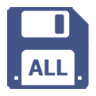
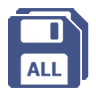
shet

Changed region(s): [[0.0625, 0.0625, 0.9375, 0.9375]]

diff --git a/main.py b/main.py
@@ -40,7 +40,8 @@ class App(QMainWindow):
         self.__save_program_action = QAction()
         self.__save_tests_action = QAction()
         self.__save_all_action = QAction()
-        self.__load_action = QAction()
+        self.__load_program_action = QAction()
+        self.__load_tests_action = QAction()
         self.__reset_action = QAction()
         self.__exit_action = QAction()
         self.__timer = QDoubleSpinBox()
@@ -63,8 +64,8 @@ class App(QMainWindow):
 
         # инициализация раннера, сейвера и загрузчика
         self.__saver = Saver(self, self.__comment, self.__table, self.__tape, self.__tape_list)
-        self.__program_run = Program(self.__table, self.__tape, self.__timer, self.__signals.on_stop)
-        # self.__program_debug = Program(self.__table, self.__tape, self.__timer, self.__signals.on_stop)
+        self.__loader = Loader(self, self.__comment, self.__table, self.__tape, self.__tape_list, self.__saver)
+        self.__program = Program(self.__table, self.__tape, self.__timer, self.__signals.on_stop)
 
         # установка получения событий
         self.installEventFilter(self)
@@ -100,7 +101,7 @@ class App(QMainWindow):
     def __set_clear_tape_action(self) -> None:
         self.__clear_tape_action.setIcon(QIcon(''))
         self.__clear_tape_action.setText('Clear')
-        self.__clear_tape_action.setShortcut('F9')  # TODO второй F4
+        self.__clear_tape_action.setShortcut('F9')
         self.__clear_tape_action.setStatusTip('Clear tape')
         self.__clear_tape_action.triggered.connect(self.clear_tape)
 
@@ -120,43 +121,50 @@ class App(QMainWindow):
 
     def __set_save_program_action(self) -> None:
         self.__save_program_action.setIcon(QIcon('icons/save-program.png'))
-        self.__save_program_action.setText('Save program')
-        self.__save_program_action.setShortcut('Ctrl+S')
-        self.__save_program_action.setStatusTip('Save program')
+        self.__save_program_action.setText('Save Program')
+        self.__save_program_action.setShortcut('Ctrl+P')
+        self.__save_program_action.setStatusTip('Save Program')
         self.__save_program_action.triggered.connect(self.__saver.save_program)
 
     def __set_save_tests_action(self) -> None:
         self.__save_tests_action.setIcon(QIcon('icons/save-tests.png'))
-        self.__save_tests_action.setText('Save tests')
+        self.__save_tests_action.setText('Save Tests')
         self.__save_tests_action.setShortcut('Ctrl+T')
-        self.__save_tests_action.setStatusTip('Save tests')
+        self.__save_tests_action.setStatusTip('Save Tests')
         self.__save_tests_action.triggered.connect(self.__saver.save_tests)
 
     def __set_save_all_action(self) -> None:
         self.__save_all_action.setIcon(QIcon('icons/save-all.png'))
-        self.__save_all_action.setText('Save all')
+        self.__save_all_action.setText('Save All')
         self.__save_all_action.setShortcut('Ctrl+A')
-        self.__save_all_action.setStatusTip('Save all')
-        # self.__save_all_action.triggered.connect(self.__saver.save_all)
+        self.__save_all_action.setStatusTip('Save All')
+        self.__save_all_action.triggered.connect(self.__saver.save_all)
 
-    def __set_load_action(self) -> None:
-        self.__load_action.setIcon(QIcon(''))
-        self.__load_action.setText('Load')
-        self.__load_action.setShortcut('Ctrl+E')
-        self.__load_action.setStatusTip('Load program')
-        self.__load_action.triggered.connect(self.load_program)
+    def __set_load_program_action(self) -> None:
+        self.__load_program_action.setIcon(QIcon(''))
+        self.__load_program_action.setText('Load Program')
+        self.__load_program_action.setShortcut('Ctrl+Shift+P')
+        self.__load_program_action.setStatusTip('Load Program')
+        self.__load_program_action.triggered.connect(self.__loader.load_program)
+
+    def __set_load_tests_action(self) -> None:
+        self.__load_tests_action.setIcon(QIcon(''))
+        self.__load_tests_action.setText('Load Tests')
+        self.__load_tests_action.setShortcut('Ctrl+Shift+T')
+        self.__load_tests_action.setStatusTip('Load Tests')
+        self.__load_tests_action.triggered.connect(self.__loader.load_tests)
 
     def __set_actions(self) -> None:
         self.__set_run_action()
         self.__set_debug_action()
         self.__set_pause_action()
         self.__set_stop_action()
-        # TODO: добавить остальные действия
         self.__set_save_program_action()
         self.__set_clear_tape_action()
         self.__set_save_tests_action()
         self.__set_save_all_action()
-        self.__set_load_action()
+        self.__set_load_program_action()
+        self.__set_load_tests_action()
         self.__set_exit_action()
 
     def __set_timer(self) -> None:
@@ -176,7 +184,8 @@ class App(QMainWindow):
         self.__file_menu.addAction(self.__save_tests_action)
         self.__file_menu.addAction(self.__save_all_action)
         self.__file_menu.addSeparator()
-        self.__file_menu.addAction(self.__load_action)
+        self.__file_menu.addAction(self.__load_program_action)
+        self.__file_menu.addAction(self.__load_tests_action)
         self.__file_menu.addSeparator()
         self.__file_menu.addAction(self.__exit_action)
 
@@ -201,11 +210,15 @@ class App(QMainWindow):
         self.__toolbar.addAction(self.__debug_action)
         self.__toolbar.addAction(self.__pause_action)
         self.__toolbar.addAction(self.__stop_action)
-        self.__toolbar.addAction(self.__clear_tape_action)
         self.__toolbar.addSeparator()
         self.__toolbar.addAction(self.__save_program_action)
         self.__toolbar.addAction(self.__save_tests_action)
         self.__toolbar.addAction(self.__save_all_action)
+        self.__toolbar.addSeparator()
+        self.__toolbar.addAction(self.__load_program_action)
+        self.__toolbar.addAction(self.__load_tests_action)
+        self.__toolbar.addSeparator()
+        self.__toolbar.addAction(self.__clear_tape_action)
         spacer = QWidget()
         spacer.setSizePolicy(QSizePolicy.Expanding, QSizePolicy.Expanding)
         self.__toolbar.addWidget(spacer)
@@ -257,33 +270,25 @@ class App(QMainWindow):
 
     def run_program(self):
         # self.__disable_interface()
-        self.__program_run.set_mode(False)
-        self.__program_run.start()
+        self.__program.set_mode(False)
+        self.__program.start()
 
     def debug_program(self):
         # self.__disable_interface()
-        self.__program_run.set_mode(True)
-        self.__program_run.start()
+        self.__program.set_mode(True)
+        self.__program.start()
 
     def pause_program(self):
-        self.__program_run.pause()
+        self.__program.pause()
 
     def stop_program(self):
         # self.__enable_interface()
-        self.__program_run.stop()
-        self.__program_run.quit()
-        self.__program_run.wait()
+        self.__program.stop()
+        self.__program.quit()
+        self.__program.wait()
 
     def clear_tape(self):
         self.__tape.reset()
-
-    def save_program(self):
-        self.__saver.save_program()
-
-    def load_program(self):
-        program = Loader.load_program(self)
-        self.__tape.set_from_file(program['tape'])
-        self.__table.set_from_file(program['table'])
 
     def init_ui(self):
         self.setGeometry(self.__x, self.__y, self.__width, self.__height)

diff --git a/utils/saver.py b/utils/saver.py
@@ -13,14 +13,38 @@ class Saver:
     PROGRAM_NAME = './program.pmp'
     TESTS_NAME = './tests.pmt'
 
-    def __init__(self, parent: any, comment: Comment, table: Table, tape: Tape, tape_list: TapeList):
+    def __init__(self, parent: any, comment: Comment, table: Table, tape: Tape, tape_list: TapeList) -> None:
         self.__parent = parent
         self.__comment = comment
         self.__table = table
         self.__tape = tape
         self.__tape_list = tape_list
+        self.__program_data = None
+        self.__tests_data = None
         self.__program_path = None
         self.__tests_path = None
+
+    def __get_file_path(self, file_name: str) -> str:
+        path = QFileDialog.getOpenFileName(self.__parent, self.CHOOSE_FILE, file_name)[0]
+        return None if path == '' else path
+
+    def __save_program(self) -> None:
+        data = self.get_program_data()
+        try:
+            with open(self.__program_path, 'w') as fout:
+                json.dump(data, fout, indent=2)
+            self.__program_data = data
+        except TypeError:
+            pass
+
+    def __save_tests(self) -> None:
+        data = self.get_tests_data()
+        try:
+            with open(self.__tests_path, 'w') as fout:
+                json.dump(data, fout, indent=2)
+            self.__tests_data = data
+        except TypeError:
+            pass
 
     def save_program(self):
         if self.__program_path is None:
@@ -29,7 +53,7 @@ class Saver:
             self.__save_program()
 
     def save_program_as(self):
-        self.__program_path = QFileDialog.getSaveFileName(self.__parent, self.CHOOSE_FILE, self.PROGRAM_NAME)[0]
+        self.__program_path = self.__get_file_path(self.PROGRAM_NAME)
         self.__save_program()
 
     def get_program_data(self) -> dict:
@@ -40,11 +64,6 @@ class Saver:
         }
         return program_data
 
-    def __save_program(self) -> None:
-        program_data = self.get_program_data()
-        with open(self.__program_path, 'w') as fout:
-            json.dump(program_data, fout, indent=2)
-
     def save_tests(self):
         if self.__tests_path is None:
             self.save_tests_as()
@@ -52,14 +71,19 @@ class Saver:
             self.__save_tests()
 
     def save_tests_as(self):
-        self.__program_path = QFileDialog.getSaveFileName(self.__parent, self.CHOOSE_FILE, self.TESTS_NAME)[0]
+        self.__tests_path = self.__get_file_path(self.TESTS_NAME)
         self.__save_tests()
 
     def get_tests_data(self) -> dict:
         tests_data = self.__tape_list.get_data()
         return tests_data
 
-    def __save_tests(self) -> None:
-        tests_data = self.get_tests_data()
-        with open(self.__tests_path, 'w') as fout:
-            json.dump(tests_data, fout, indent=2)
+    def save_all(self):
+        self.save_program()
+        self.save_tests()
+
+    def is_program_unsaved(self) -> bool:
+        return self.__program_data != self.get_program_data()
+
+    def are_tests_unsaved(self) -> bool:
+        return self.__tests_data != self.get_tests_data()

diff --git a/utils/loader.py b/utils/loader.py
@@ -1,17 +1,69 @@
 import json
+from json import JSONDecodeError
 
-from PyQt5.QtWidgets import QFileDialog
+from PyQt5.QtWidgets import QFileDialog, QMessageBox
+
+from utils import Saver
+from widgets.comment import Comment
+from widgets.table import Table
+from widgets.tape import Tape
+from widgets.tape_list import TapeList
 
 
 class Loader:
-    @staticmethod
-    def load_program(app):
-        fname = QFileDialog.getOpenFileName(app, 'Open file', './~')[0]
+    OPEN_FILE = 'Open file'
+    DEFAULT_DIRECTORY = './~'
+
+    def __init__(self, parent: any, comment: Comment, table: Table, tape: Tape, tape_list: TapeList,
+                 saver: Saver) -> None:
+        self.__parent = parent
+        self.__comment = comment
+        self.__table = table
+        self.__tape = tape
+        self.__tape_list = tape_list
+        self.__saver = saver
+
+    def __get_file_path(self) -> str:
+        return QFileDialog.getOpenFileName(self.__parent, self.OPEN_FILE, self.DEFAULT_DIRECTORY)[0]
+
+    def __unsaved_program_warning(self) -> None:
+        if self.__saver.is_program_unsaved() and self.get_answer():
+            self.__saver.save_program()
+
+    def __unsaved_tests_warning(self) -> None:
+        if self.__saver.are_tests_unsaved() and self.get_answer():
+            self.__saver.save_tests()
+
+    def load_program(self) -> None:
         try:
-            with open(fname, mode='r') as fin:
+            with open(self.__get_file_path(), 'r') as fin:
                 program = json.load(fin)
-        except:
-            return
-        return program
+            self.__comment.set_from_file(program['comment'])
+            self.__table.set_from_file(program['table'])
+            self.__tape.set_from_file(program['tape'])
+        except (JSONDecodeError, KeyError):
+            # TODO: код для посланания сообщения, что файл неверного формата
+            pass
+        except FileNotFoundError:
+            pass
 
+    def load_tests(self) -> None:
+        try:
+            self.__unsaved_tests_warning()
+            with open(self.__get_file_path(), 'r') as fin:
+                tests = json.load(fin)
+            self.__tape_list.set_from_file(tests)
+        except (JSONDecodeError, KeyError):
+            # TODO: код для посланания сообщения, что файл неверного формата
+            pass
+        except FileNotFoundError:
+            pass
 
+    @staticmethod
+    def get_answer() -> bool:
+        message = QMessageBox()
+        message.setWindowTitle('Unsaved changes')
+        message.setText('Want to save your changes?')
+        message.setStandardButtons(QMessageBox.Yes | QMessageBox.No)
+        answer = message.exec()
+        return answer == QMessageBox.Yes

diff --git a/widgets/comment.py b/widgets/comment.py
@@ -8,3 +8,6 @@ class Comment(QPlainTextEdit):
 
     def get_data(self) -> str:
         return self.toPlainText()
+
+    def set_from_file(self, file: str) -> None:
+        self.setPlainText(file)
